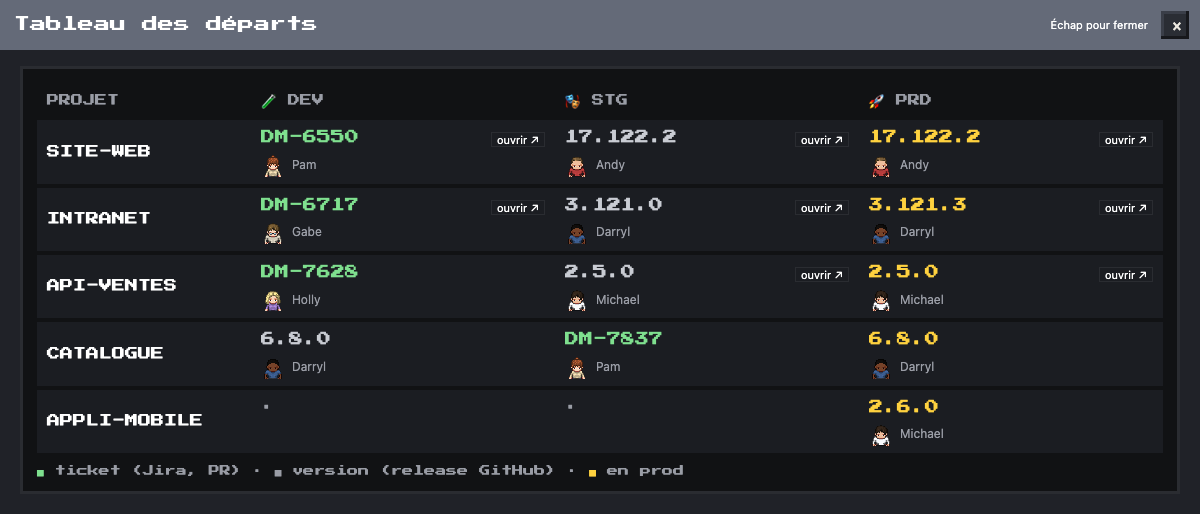
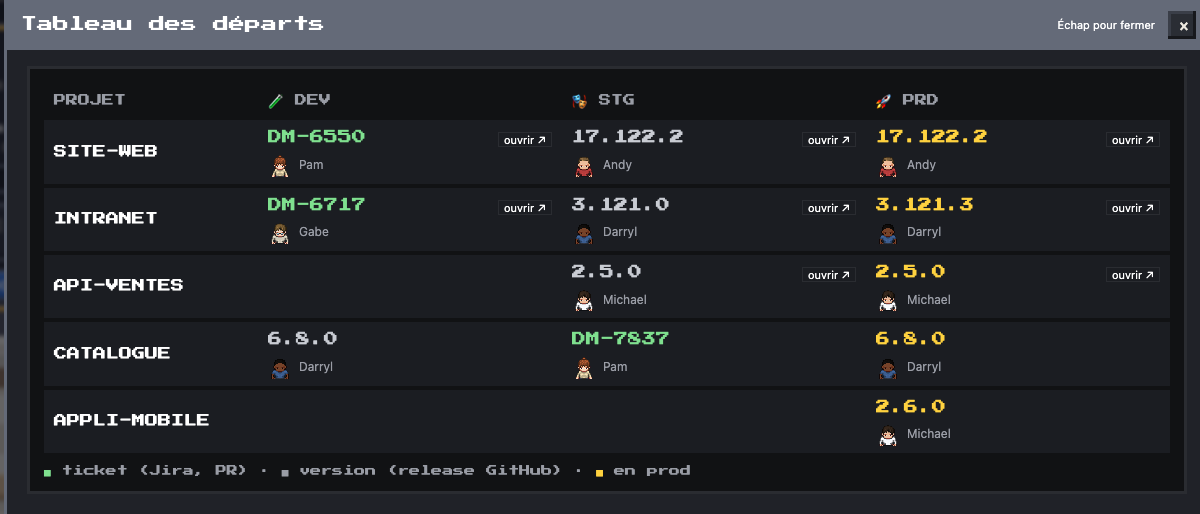
fix(departs): une case vide, au fond de la ligne, pour un env absent ou sans déploiement (#260)
Dans la fenêtre « Tableau des départs », les cases sans rien à montrer
n'avaient pas toutes le même aspect (DEV Africanews, DEV et STG de
l'extension Chrome).

## Ce qui change
- **Env absent** (réglage `envs`, ex. Africanews sans DEV) : avant, case
transparente (noire) avec « pas de DEV » ; maintenant, case vide sur le
fond normal de la ligne, « pas de DEV » au survol.
- **Env sans déploiement relu** (ex. extension Chrome en DEV et STG) :
avant, un « · » ; maintenant, case vide. « ouvrir ↗ » reste quand
l'adresse de l'env est connue.
- Le mode TV ne change pas.
- Doc `guide/fonctionnalites/21-departs.md` et capture `departs.png` à
jour ; démo des captures : api-ventes sans DEV (`envs`).

## Tests
- `tests/departs.test.js` mis à jour (cases vides, `title` « pas de DEV
»).
- `sh tools/test.sh --chrome` vert en local.

🤖 Generated with [Claude Code](https://claude.com/claude-code)

diff --git a/page/src/62-departs.js b/page/src/62-departs.js
@@ -45,12 +45,12 @@ const DEPARTS_BOARD={y:-1,draw:now=>{
 // ---------- la fenêtre : un dépôt par ligne, DEV, STG et PRD ; « ouvrir ↗ » mène à l'env quand son adresse est connue ----------
 const depA=(cls,url,t,tip='')=>`<a class="${cls}" ${hrefOf(url)} target="_blank" rel="noopener" title="${esc(tip)}">${esc(t)}</a>`;
 const depWho=o=>{const c=o.by?byChar(o.by):null;return {c,n:c?c.name:o.by||''};};
-// un env que le dépôt n'a pas (réglage envs) : « pas de DEV » dans la case, sans lien
+// un env que le dépôt n'a pas (réglage envs) : case vide, sans lien (« pas de DEV » au survol), comme un env sans déploiement
 const depHas=(r,env)=>!Array.isArray(r.envs)||r.envs.includes(env);
 function depCell(r,env){
-  if(!depHas(r,env))return '<td class="dep-off"><span class="dep-none">pas de '+env.toUpperCase()+'</span></td>';
+  if(!depHas(r,env))return '<td class="dep-off" title="pas de '+env.toUpperCase()+'"></td>';
   const u=r.urls&&envHref(r.urls[env]), go=u?`<a class="dep-go" href="${esc(u)}" target="_blank" rel="noopener" title="${esc(u)}">ouvrir ↗</a>`:'';
-  const o=r[env];if(!o||!o.ref)return `<td><div class="dep-top"><span class="dep-none">·</span>${go}</div></td>`;
+  const o=r[env];if(!o||!o.ref)return go?`<td><div class="dep-top"><span class="dep-l"></span>${go}</div></td>`:'<td></td>';
   const gh='https://github.com/'+r.repo, k=!o.tag&&depKey(o.ref), t=k&&ticketOf(k), w=depWho(o),
     pr=!o.tag&&TEAM&&[...TEAM.people.flatMap(p=>p.prs||[]),...(TEAM.other_prs||[])].find(x=>x.head===o.ref&&prRepo(x)===r.repo);
   const v=o.tag?depA(env==='prd'?'dep-prd':'',gh+'/releases/tag/'+encodeURIComponent(o.ref),o.ref)

diff --git a/page/src/styles.css b/page/src/styles.css
@@ -874,7 +874,6 @@ body.tv.tvscene #tvscene{display:flex;flex-direction:column}
 .dep a{color:inherit;text-decoration:none}.dep a:hover{text-decoration:underline 2px;text-underline-offset:4px}
 .dep .dep-prd,.tve-l .dep-prd{color:var(--dep-prd)}.dep .dep-br{color:var(--dep-branch)}.dep-pr,.dep-who,.dep-key,.dep-none{color:var(--dep-when)}
 .dep-pr{font-size:10px;margin-left:6px}
-.dep td.dep-off{background:transparent;vertical-align:middle}
 .dep-top{display:flex;align-items:baseline;gap:6px}.dep-top .dep-l{flex:1;min-width:0}
 .dep a.dep-go{flex:none;font:11px system-ui,sans-serif;color:var(--dep-name);border:1px solid var(--dep-frame);border-radius:4px;padding:0 5px;white-space:nowrap}
 .dep a.dep-go:hover{border-color:var(--dep-branch);text-decoration:none}

diff --git a/tools/shots.py b/tools/shots.py
@@ -84,7 +84,7 @@ DEP_DEMO = ("applyLayout({...LAYOUT,clock:[9,11],plants:LAYOUT.plants.map(p=>p[0
             "LIVE={...(LIVE||{runs:[],discussions:[],deploys:{}}),departs:["
             "{repo:'dunder-mifflin/site-web',label:'site-web',urls:{dev:'https://www.dev.dunder-mifflin.com/',stg:'https://www.stg.dunder-mifflin.com/',prd:'https://www.dunder-mifflin.com/'},dev:_dv('feat/DM-6550-carrousel',false,'pambeesly',2),stg:_dv('17.122.2',true,'andybernard',20),prd:_dv('17.122.2',true,'andybernard',1.5)},"
             "{repo:'dunder-mifflin/intranet',label:'intranet',urls:{dev:'http://intranet.dev.dunder-mifflin.internal/',stg:'http://intranet.stg.dunder-mifflin.internal/',prd:'http://intranet.dunder-mifflin.internal/'},dev:_dv('feat/DM-6717-annuaire',false,'gabelewis',5),stg:_dv('3.121.0',true,'darrylphilbin',30),prd:_dv('3.121.3',true,'darrylphilbin',26)},"
-            "{repo:'dunder-mifflin/api-ventes',label:'api-ventes',urls:{stg:'https://api-ventes.stg.dunder-mifflin.com/',prd:'https://api-ventes.dunder-mifflin.com/'},dev:_dv('refactor/DM-7628-cache',false,'hollyflax',1),stg:_dv('2.5.0',true,'michaelscott',150),prd:_dv('2.5.0',true,'michaelscott',148)},"
+            "{repo:'dunder-mifflin/api-ventes',label:'api-ventes',envs:['stg','prd'],urls:{stg:'https://api-ventes.stg.dunder-mifflin.com/',prd:'https://api-ventes.dunder-mifflin.com/'},dev:_dv('refactor/DM-7628-cache',false,'hollyflax',1),stg:_dv('2.5.0',true,'michaelscott',150),prd:_dv('2.5.0',true,'michaelscott',148)},"
             "{repo:'dunder-mifflin/catalogue',label:'catalogue',dev:_dv('6.8.0',true,'darrylphilbin',60),stg:_dv('fix/DM-7837-papier-recycle',false,'pambeesly',4),prd:_dv('6.8.0',true,'darrylphilbin',60)},"
             "{repo:'dunder-mifflin/appli-mobile',label:'appli-mobile',prd:_dv('2.6.0',true,'michaelscott',650)}]};")
 # le coin de la cafétéria où pend le panneau, agrandi

diff --git a/guide/fonctionnalites/21-departs.md b/guide/fonctionnalites/21-departs.md
@@ -21,10 +21,10 @@ Une ligne par dépôt suivi (`github.repo` puis `github.deploys`, dans cet ordre
 - **en vert**, la branche d'un ticket : sa clé, liée au ticket dans Jira, et sa PR à côté quand le Bureau la connaît ; une branche sans ticket est liée à la branche sur GitHub ;
 - **en gris**, une version (ou une image de test), liée à sa release sur GitHub ;
 - **en jaune**, la version en prod ;
-- sous chaque valeur, qui l'a déployée (son avatar s'il est dans l'équipe) ; un tiret quand l'env n'existe pas pour ce dépôt.
+- sous chaque valeur, qui l'a déployée (son avatar s'il est dans l'équipe) ; une case vide quand rien n'y est déployé ou que l'env n'existe pas pour ce dépôt.
 - **« ouvrir ↗ »** dans la case, quand l'adresse de l'env est connue : un clic ouvre l'env lui-même, même si on ne sait pas ce qui y tourne.
 
-Les adresses se donnent une fois, dans la config locale (`bureau.config.json`) : une clé `urls` à côté du dépôt principal (`github.urls`) ou d'un dépôt suivi (`github.deploys[].urls`), avec `dev`, `stg` et `prd`, en `https://` ou `http://` (envs internes). Un env sans adresse garde sa case sans lien. Un projet qui n'a pas tous les envs le dit avec la clé `envs` (par exemple `["stg", "prd"]` sans DEV) : la case de l'env absent dit « pas de DEV », même si un vieux déploiement le nomme encore, et le mode TV n'en a pas la ligne. Ces adresses servent aussi au Mur Kanban : sur la carte d'un ticket, la pastille 🧪 DEV ou 🎭 STG d'une branche déployée mène à l'env, et dans la fiche, la marque de l'env de sa PR aussi.
+Les adresses se donnent une fois, dans la config locale (`bureau.config.json`) : une clé `urls` à côté du dépôt principal (`github.urls`) ou d'un dépôt suivi (`github.deploys[].urls`), avec `dev`, `stg` et `prd`, en `https://` ou `http://` (envs internes). Un env sans adresse garde sa case sans lien. Un projet qui n'a pas tous les envs le dit avec la clé `envs` (par exemple `["stg", "prd"]` sans DEV) : la case de l'env absent reste vide (« pas de DEV » au survol), même si un vieux déploiement le nomme encore, et le mode TV n'en a pas la ligne. Ces adresses servent aussi au Mur Kanban : sur la carte d'un ticket, la pastille 🧪 DEV ou 🎭 STG d'une branche déployée mène à l'env, et dans la fiche, la marque de l'env de sa PR aussi.
 
 ```json
 "github": {"repo": "acme/site", "urls": {"dev": "https://www.dev.acme.com/", "stg": "https://www.stg.acme.com/"},
